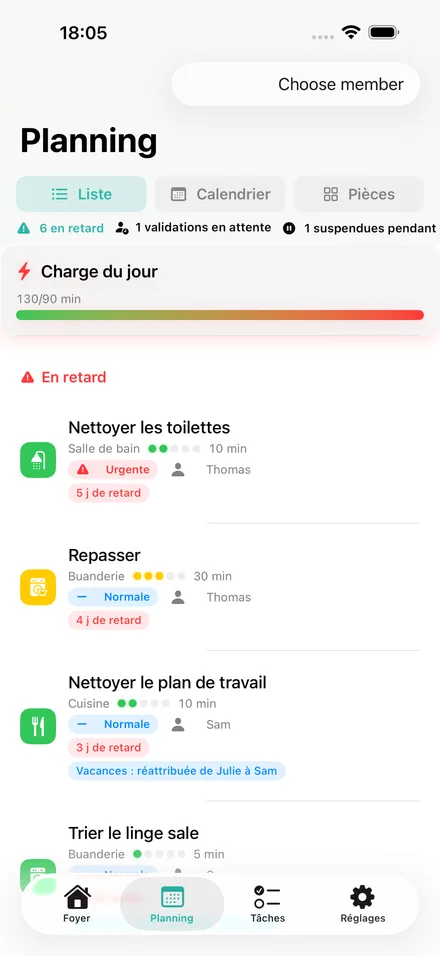
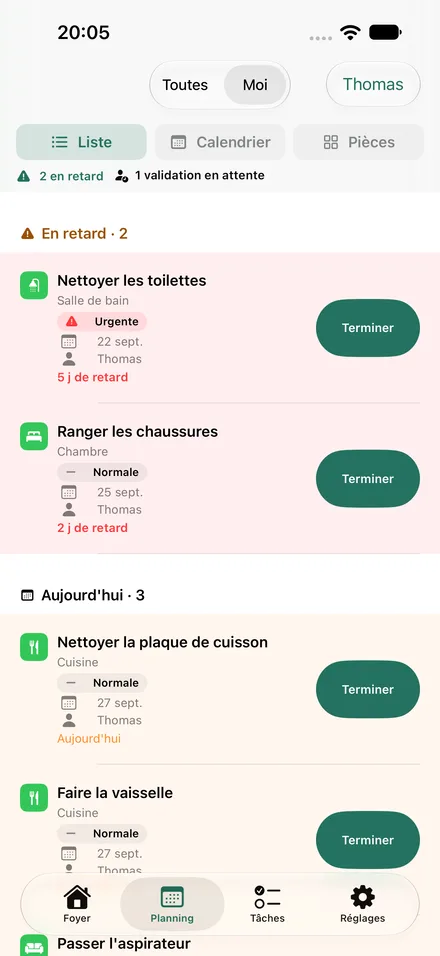
Sync NeatShift 2.6.0 in public app catalogue

diff --git a/fr/index.html b/fr/index.html
@@ -160,7 +160,7 @@
 <article class="product-row" data-app="FastZen" data-category="everyday" data-search="FastZen iPhone Un rythme simple pour le jeûne. Prévisualisez gratuitement les sept prochains jours. Avec la Semaine sur mesure, décalez un début ou prenez un jour de repos sans modifier votre semaine habituelle."><div class="product-copy"><div class="product-top"><img class="app-icon" src="/assets/apps/fastzen.webp" width="512" height="512" alt="" loading="lazy" decoding="async"><div><p class="product-category">Quotidien</p><h3><a href="https://bnjdpn.github.io/FastZen/fr-FR/">FastZen</a></h3></div></div><p class="product-headline">Un rythme simple pour le jeûne.</p><p class="product-description">Prévisualisez gratuitement les sept prochains jours. Avec la Semaine sur mesure, décalez un début ou prenez un jour de repos sans modifier votre semaine habituelle.</p><p class="product-platform">iPhone</p><div class="product-actions"><a href="https://bnjdpn.github.io/FastZen/fr-FR/" aria-label="Découvrir · FastZen">Découvrir<svg viewBox="0 0 24 24" width="24" height="24" aria-hidden="true" fill="none" stroke="currentColor" stroke-width="1.6"><path d="M5 12h14m-6-6 6 6-6 6"/></svg></a><a class="store-link" href="https://apps.apple.com/app/id6761484595" aria-label="App Store · FastZen">App Store<svg viewBox="0 0 24 24" width="24" height="24" aria-hidden="true" fill="none" stroke="currentColor" stroke-width="1.6"><path d="M6 18 18 6M6 6h12v12"/></svg></a></div></div><a class="product-preview" href="https://bnjdpn.github.io/FastZen/fr-FR/" tabindex="-1" aria-hidden="true"><span class="screen" style="--ratio:0.4602510460251046;--image-width:100%;--image-left:0%;--image-top:0%"><img src="/assets/previews/fastzen-fr-detail.webp" width="880" height="1912" alt="FastZen" loading="lazy" decoding="async"></span></a></article>
 <article class="product-row" data-app="ColdLoad" data-category="training" data-search="ColdLoad iPhone Les bons disques, sans calcul mental. Essayez un exemple guidé en kg ou lb, puis utilisez votre inventaire de disques. Voyez les changements de chaque côté et les charges impossibles à atteindre."><div class="product-copy"><div class="product-top"><img class="app-icon" src="/assets/apps/coldload.webp" width="512" height="512" alt="" loading="lazy" decoding="async"><div><p class="product-category">Sport</p><h3><a href="https://bnjdpn.github.io/ColdLoad/fr-FR/">ColdLoad</a></h3></div></div><p class="product-headline">Les bons disques, sans calcul mental.</p><p class="product-description">Essayez un exemple guidé en kg ou lb, puis utilisez votre inventaire de disques. Voyez les changements de chaque côté et les charges impossibles à atteindre.</p><p class="product-platform">iPhone</p><div class="product-actions"><a href="https://bnjdpn.github.io/ColdLoad/fr-FR/" aria-label="Découvrir · ColdLoad">Découvrir<svg viewBox="0 0 24 24" width="24" height="24" aria-hidden="true" fill="none" stroke="currentColor" stroke-width="1.6"><path d="M5 12h14m-6-6 6 6-6 6"/></svg></a><a class="store-link" href="https://apps.apple.com/app/id6785921799" aria-label="App Store · ColdLoad">App Store<svg viewBox="0 0 24 24" width="24" height="24" aria-hidden="true" fill="none" stroke="currentColor" stroke-width="1.6"><path d="M6 18 18 6M6 6h12v12"/></svg></a></div></div><a class="product-preview" href="https://bnjdpn.github.io/ColdLoad/fr-FR/" tabindex="-1" aria-hidden="true"><span class="screen" style="--ratio:0.4602510460251046;--image-width:100%;--image-left:0%;--image-top:0%"><img src="/assets/previews/coldload-fr-detail.webp" width="880" height="1912" alt="ColdLoad" loading="lazy" decoding="async"></span></a></article>
 <article class="product-row" data-app="MoveAtlas" data-category="training" data-search="MoveAtlas iPhone Trouver le mouvement qui convient. Retrouvez les fiches machines en français, anglais, allemand et espagnol. Consultez les repères de réglage et choisissez vos alternatives pour préparer la séance."><div class="product-copy"><div class="product-top"><img class="app-icon" src="/assets/apps/moveatlas.webp" width="512" height="512" alt="" loading="lazy" decoding="async"><div><p class="product-category">Sport</p><h3><a href="https://bnjdpn.github.io/MoveAtlas/fr-FR/">MoveAtlas</a></h3></div></div><p class="product-headline">Trouver le mouvement qui convient.</p><p class="product-description">Retrouvez les fiches machines en français, anglais, allemand et espagnol. Consultez les repères de réglage et choisissez vos alternatives pour préparer la séance.</p><p class="product-platform">iPhone</p><div class="product-actions"><a href="https://bnjdpn.github.io/MoveAtlas/fr-FR/" aria-label="Découvrir · MoveAtlas">Découvrir<svg viewBox="0 0 24 24" width="24" height="24" aria-hidden="true" fill="none" stroke="currentColor" stroke-width="1.6"><path d="M5 12h14m-6-6 6 6-6 6"/></svg></a><a class="store-link" href="https://apps.apple.com/app/id6786200811" aria-label="App Store · MoveAtlas">App Store<svg viewBox="0 0 24 24" width="24" height="24" aria-hidden="true" fill="none" stroke="currentColor" stroke-width="1.6"><path d="M6 18 18 6M6 6h12v12"/></svg></a></div></div><a class="product-preview" href="https://bnjdpn.github.io/MoveAtlas/fr-FR/" tabindex="-1" aria-hidden="true"><span class="screen" style="--ratio:0.46145778710015734;--image-width:100%;--image-left:0%;--image-top:0%"><img src="/assets/previews/moveatlas-fr-detail.webp" width="880" height="1907" alt="MoveAtlas" loading="lazy" decoding="async"></span></a></article>
-<article class="product-row" data-app="NeatShift" data-category="everyday" data-search="NeatShift iPhone · iPad Faire une place à chacun dans la routine. Essayez gratuitement un foyer d’exemple sans modifier le vôtre. Découvrez les tâches, les disponibilités et un aperçu de leur répartition."><div class="product-copy"><div class="product-top"><img class="app-icon" src="/assets/apps/neatshift.webp" width="512" height="512" alt="" loading="lazy" decoding="async"><div><p class="product-category">Quotidien</p><h3><a href="https://bnjdpn.github.io/NeatShift/fr-FR/">NeatShift</a></h3></div></div><p class="product-headline">Faire une place à chacun dans la routine.</p><p class="product-description">Essayez gratuitement un foyer d’exemple sans modifier le vôtre. Découvrez les tâches, les disponibilités et un aperçu de leur répartition.</p><p class="product-platform">iPhone · iPad</p><div class="product-actions"><a href="https://bnjdpn.github.io/NeatShift/fr-FR/" aria-label="Découvrir · NeatShift">Découvrir<svg viewBox="0 0 24 24" width="24" height="24" aria-hidden="true" fill="none" stroke="currentColor" stroke-width="1.6"><path d="M5 12h14m-6-6 6 6-6 6"/></svg></a><a class="store-link" href="https://apps.apple.com/app/id6759961773" aria-label="App Store · NeatShift">App Store<svg viewBox="0 0 24 24" width="24" height="24" aria-hidden="true" fill="none" stroke="currentColor" stroke-width="1.6"><path d="M6 18 18 6M6 6h12v12"/></svg></a></div></div><a class="product-preview" href="https://bnjdpn.github.io/NeatShift/fr-FR/" tabindex="-1" aria-hidden="true"><span class="screen" style="--ratio:0.4602510460251046;--image-width:100%;--image-left:0%;--image-top:0%"><img src="/assets/previews/neatshift-fr-detail.webp" width="880" height="1912" alt="NeatShift" loading="lazy" decoding="async"></span></a></article>
+<article class="product-row" data-app="NeatShift" data-category="everyday" data-search="NeatShift iPhone · iPad Un planning plus clair pour le foyer. Voyez les tâches du jour et les retards, répartissez selon le temps de chacun et prévisualisez l’effet d’une absence. Essayez un foyer d’exemple sans modifier le vôtre."><div class="product-copy"><div class="product-top"><img class="app-icon" src="/assets/apps/neatshift.webp" width="512" height="512" alt="" loading="lazy" decoding="async"><div><p class="product-category">Quotidien</p><h3><a href="https://bnjdpn.github.io/NeatShift/fr-FR/">NeatShift</a></h3></div></div><p class="product-headline">Un planning plus clair pour le foyer.</p><p class="product-description">Voyez les tâches du jour et les retards, répartissez selon le temps de chacun et prévisualisez l’effet d’une absence. Essayez un foyer d’exemple sans modifier le vôtre.</p><p class="product-platform">iPhone · iPad</p><div class="product-actions"><a href="https://bnjdpn.github.io/NeatShift/fr-FR/" aria-label="Découvrir · NeatShift">Découvrir<svg viewBox="0 0 24 24" width="24" height="24" aria-hidden="true" fill="none" stroke="currentColor" stroke-width="1.6"><path d="M5 12h14m-6-6 6 6-6 6"/></svg></a><a class="store-link" href="https://apps.apple.com/app/id6759961773" aria-label="App Store · NeatShift">App Store<svg viewBox="0 0 24 24" width="24" height="24" aria-hidden="true" fill="none" stroke="currentColor" stroke-width="1.6"><path d="M6 18 18 6M6 6h12v12"/></svg></a></div></div><a class="product-preview" href="https://bnjdpn.github.io/NeatShift/fr-FR/" tabindex="-1" aria-hidden="true"><span class="screen" style="--ratio:0.4602510460251046;--image-width:100%;--image-left:0%;--image-top:0%"><img src="/assets/previews/neatshift-fr-detail.webp" width="880" height="1912" alt="NeatShift" loading="lazy" decoding="async"></span></a></article>
 <article class="product-row" data-app="BrewMeter" data-category="everyday" data-search="BrewMeter iPhone Garder un œil sur sa caféine. Notez vos boissons et distinguez la consommation enregistrée, la caféine restante estimée et l’estimation au coucher choisi. Vérifiez les favoris avant validation et explorez les tendances."><div class="product-copy"><div class="product-top"><img class="app-icon" src="/assets/apps/brewmeter.webp" width="512" height="512" alt="" loading="lazy" decoding="async"><div><p class="product-category">Quotidien</p><h3><a href="https://bnjdpn.github.io/BrewMeter/fr-FR/">BrewMeter</a></h3></div></div><p class="product-headline">Garder un œil sur sa caféine.</p><p class="product-description">Notez vos boissons et distinguez la consommation enregistrée, la caféine restante estimée et l’estimation au coucher choisi. Vérifiez les favoris avant validation et explorez les tendances.</p><p class="product-platform">iPhone</p><div class="product-actions"><a href="https://bnjdpn.github.io/BrewMeter/fr-FR/" aria-label="Découvrir · BrewMeter">Découvrir<svg viewBox="0 0 24 24" width="24" height="24" aria-hidden="true" fill="none" stroke="currentColor" stroke-width="1.6"><path d="M5 12h14m-6-6 6 6-6 6"/></svg></a><a class="store-link" href="https://apps.apple.com/app/id6760132566" aria-label="App Store · BrewMeter">App Store<svg viewBox="0 0 24 24" width="24" height="24" aria-hidden="true" fill="none" stroke="currentColor" stroke-width="1.6"><path d="M6 18 18 6M6 6h12v12"/></svg></a></div></div><a class="product-preview" href="https://bnjdpn.github.io/BrewMeter/fr-FR/" tabindex="-1" aria-hidden="true"><span class="screen" style="--ratio:0.4602510460251046;--image-width:100%;--image-left:0%;--image-top:0%"><img src="/assets/previews/brewmeter-fr-detail.webp" width="880" height="1912" alt="BrewMeter" loading="lazy" decoding="async"></span></a></article>
 <article class="product-row" data-app="NoBuyCart" data-category="everyday" data-search="NoBuy Cart iPhone Le plaisir du panier, sans passer en caisse. Gardez vos envies réelles avec des notes, mettez-les en pause et notez votre décision. Une boutique fictive distincte permet de remplir un panier sans passer en caisse."><div class="product-copy"><div class="product-top"><img class="app-icon" src="/assets/apps/nobuycart.webp" width="512" height="512" alt="" loading="lazy" decoding="async"><div><p class="product-category">Quotidien</p><h3><a href="https://bnjdpn.github.io/NoBuyCart/fr-FR/">NoBuy Cart</a></h3></div></div><p class="product-headline">Le plaisir du panier, sans passer en caisse.</p><p class="product-description">Gardez vos envies réelles avec des notes, mettez-les en pause et notez votre décision. Une boutique fictive distincte permet de remplir un panier sans passer en caisse.</p><p class="product-platform">iPhone</p><div class="product-actions"><a href="https://bnjdpn.github.io/NoBuyCart/fr-FR/" aria-label="Découvrir · NoBuy Cart">Découvrir<svg viewBox="0 0 24 24" width="24" height="24" aria-hidden="true" fill="none" stroke="currentColor" stroke-width="1.6"><path d="M5 12h14m-6-6 6 6-6 6"/></svg></a><a class="store-link" href="https://apps.apple.com/app/id6778049102" aria-label="App Store · NoBuy Cart">App Store<svg viewBox="0 0 24 24" width="24" height="24" aria-hidden="true" fill="none" stroke="currentColor" stroke-width="1.6"><path d="M6 18 18 6M6 6h12v12"/></svg></a></div></div><a class="product-preview" href="https://bnjdpn.github.io/NoBuyCart/fr-FR/" tabindex="-1" aria-hidden="true"><span class="screen" style="--ratio:0.4602510460251046;--image-width:100%;--image-left:0%;--image-top:0%"><img src="/assets/previews/nobuycart-fr-detail.webp" width="880" height="1912" alt="NoBuy Cart" loading="lazy" decoding="async"></span></a></article>
 <article class="product-row" data-app="PasDuJour" data-category="everyday" data-search="Pas du Jour Apple Watch Vos pas du jour, en un regard. Suivez le guide intégré pour ajouter une complication de pas au cadran. Gardez le compteur du jour et votre objectif au poignet, avec des styles à personnaliser."><div class="product-copy"><div class="product-top"><img class="app-icon" src="/assets/apps/pasdujour.webp" width="512" height="512" alt="" loading="lazy" decoding="async"><div><p class="product-category">Quotidien</p><h3><a href="https://bnjdpn.github.io/PasDuJour/fr-FR/">Pas du Jour</a></h3></div></div><p class="product-headline">Vos pas du jour, en un regard.</p><p class="product-description">Suivez le guide intégré pour ajouter une complication de pas au cadran. Gardez le compteur du jour et votre objectif au poignet, avec des styles à personnaliser.</p><p class="product-platform">Apple Watch</p><div class="product-actions"><a href="https://bnjdpn.github.io/PasDuJour/fr-FR/" aria-label="Découvrir · Pas du Jour">Découvrir<svg viewBox="0 0 24 24" width="24" height="24" aria-hidden="true" fill="none" stroke="currentColor" stroke-width="1.6"><path d="M5 12h14m-6-6 6 6-6 6"/></svg></a><a class="store-link" href="https://apps.apple.com/app/id6795232703" aria-label="App Store · Pas du Jour">App Store<svg viewBox="0 0 24 24" width="24" height="24" aria-hidden="true" fill="none" stroke="currentColor" stroke-width="1.6"><path d="M6 18 18 6M6 6h12v12"/></svg></a></div></div><a class="product-preview" href="https://bnjdpn.github.io/PasDuJour/fr-FR/" tabindex="-1" aria-hidden="true"><span class="screen" style="--ratio:0.8210116731517509;--image-width:100%;--image-left:0%;--image-top:0%"><img src="/assets/previews/pasdujour-fr-detail.webp" width="422" height="514" alt="Pas du Jour" loading="lazy" decoding="async"></span></a></article>

diff --git a/index.html b/index.html
@@ -160,7 +160,7 @@
 <article class="product-row" data-app="FastZen" data-category="everyday" data-search="FastZen iPhone A simple rhythm for fasting. Preview your next seven days for free. With Custom Week, move a start or take a rest day for one date without changing your weekly routine."><div class="product-copy"><div class="product-top"><img class="app-icon" src="/assets/apps/fastzen.webp" width="512" height="512" alt="" loading="lazy" decoding="async"><div><p class="product-category">Everyday life</p><h3><a href="https://bnjdpn.github.io/FastZen/">FastZen</a></h3></div></div><p class="product-headline">A simple rhythm for fasting.</p><p class="product-description">Preview your next seven days for free. With Custom Week, move a start or take a rest day for one date without changing your weekly routine.</p><p class="product-platform">iPhone</p><div class="product-actions"><a href="https://bnjdpn.github.io/FastZen/" aria-label="Discover · FastZen">Discover<svg viewBox="0 0 24 24" width="24" height="24" aria-hidden="true" fill="none" stroke="currentColor" stroke-width="1.6"><path d="M5 12h14m-6-6 6 6-6 6"/></svg></a><a class="store-link" href="https://apps.apple.com/app/id6761484595" aria-label="App Store · FastZen">App Store<svg viewBox="0 0 24 24" width="24" height="24" aria-hidden="true" fill="none" stroke="currentColor" stroke-width="1.6"><path d="M6 18 18 6M6 6h12v12"/></svg></a></div></div><a class="product-preview" href="https://bnjdpn.github.io/FastZen/" tabindex="-1" aria-hidden="true"><span class="screen" style="--ratio:0.4602510460251046;--image-width:100%;--image-left:0%;--image-top:0%"><img src="/assets/previews/fastzen-en-detail.webp" width="880" height="1912" alt="FastZen" loading="lazy" decoding="async"></span></a></article>
 <article class="product-row" data-app="ColdLoad" data-category="training" data-search="ColdLoad iPhone The right plates, without the maths. Try a guided example in kg or lb, then use your own plate inventory. See what goes on each side and when a target cannot be reached."><div class="product-copy"><div class="product-top"><img class="app-icon" src="/assets/apps/coldload.webp" width="512" height="512" alt="" loading="lazy" decoding="async"><div><p class="product-category">Training</p><h3><a href="https://bnjdpn.github.io/ColdLoad/">ColdLoad</a></h3></div></div><p class="product-headline">The right plates, without the maths.</p><p class="product-description">Try a guided example in kg or lb, then use your own plate inventory. See what goes on each side and when a target cannot be reached.</p><p class="product-platform">iPhone</p><div class="product-actions"><a href="https://bnjdpn.github.io/ColdLoad/" aria-label="Discover · ColdLoad">Discover<svg viewBox="0 0 24 24" width="24" height="24" aria-hidden="true" fill="none" stroke="currentColor" stroke-width="1.6"><path d="M5 12h14m-6-6 6 6-6 6"/></svg></a><a class="store-link" href="https://apps.apple.com/app/id6785921799" aria-label="App Store · ColdLoad">App Store<svg viewBox="0 0 24 24" width="24" height="24" aria-hidden="true" fill="none" stroke="currentColor" stroke-width="1.6"><path d="M6 18 18 6M6 6h12v12"/></svg></a></div></div><a class="product-preview" href="https://bnjdpn.github.io/ColdLoad/" tabindex="-1" aria-hidden="true"><span class="screen" style="--ratio:0.4602510460251046;--image-width:100%;--image-left:0%;--image-top:0%"><img src="/assets/previews/coldload-en-detail.webp" width="880" height="1912" alt="ColdLoad" loading="lazy" decoding="async"></span></a></article>
 <article class="product-row" data-app="MoveAtlas" data-category="training" data-search="MoveAtlas iPhone Find a movement that fits. Find equipment cards in French, English, German and Spanish. Read setup cues and choose alternatives yourself to prepare your workout."><div class="product-copy"><div class="product-top"><img class="app-icon" src="/assets/apps/moveatlas.webp" width="512" height="512" alt="" loading="lazy" decoding="async"><div><p class="product-category">Training</p><h3><a href="https://bnjdpn.github.io/MoveAtlas/">MoveAtlas</a></h3></div></div><p class="product-headline">Find a movement that fits.</p><p class="product-description">Find equipment cards in French, English, German and Spanish. Read setup cues and choose alternatives yourself to prepare your workout.</p><p class="product-platform">iPhone</p><div class="product-actions"><a href="https://bnjdpn.github.io/MoveAtlas/" aria-label="Discover · MoveAtlas">Discover<svg viewBox="0 0 24 24" width="24" height="24" aria-hidden="true" fill="none" stroke="currentColor" stroke-width="1.6"><path d="M5 12h14m-6-6 6 6-6 6"/></svg></a><a class="store-link" href="https://apps.apple.com/app/id6786200811" aria-label="App Store · MoveAtlas">App Store<svg viewBox="0 0 24 24" width="24" height="24" aria-hidden="true" fill="none" stroke="currentColor" stroke-width="1.6"><path d="M6 18 18 6M6 6h12v12"/></svg></a></div></div><a class="product-preview" href="https://bnjdpn.github.io/MoveAtlas/" tabindex="-1" aria-hidden="true"><span class="screen" style="--ratio:0.46145778710015734;--image-width:100%;--image-left:0%;--image-top:0%"><img src="/assets/previews/moveatlas-en-detail.webp" width="880" height="1907" alt="MoveAtlas" loading="lazy" decoding="async"></span></a></article>
-<article class="product-row" data-app="NeatShift" data-category="everyday" data-search="NeatShift iPhone · iPad Make room for a shared routine. Try a sample household for free without changing your own. Explore chores, availability and a preview of how tasks can be shared."><div class="product-copy"><div class="product-top"><img class="app-icon" src="/assets/apps/neatshift.webp" width="512" height="512" alt="" loading="lazy" decoding="async"><div><p class="product-category">Everyday life</p><h3><a href="https://bnjdpn.github.io/NeatShift/">NeatShift</a></h3></div></div><p class="product-headline">Make room for a shared routine.</p><p class="product-description">Try a sample household for free without changing your own. Explore chores, availability and a preview of how tasks can be shared.</p><p class="product-platform">iPhone · iPad</p><div class="product-actions"><a href="https://bnjdpn.github.io/NeatShift/" aria-label="Discover · NeatShift">Discover<svg viewBox="0 0 24 24" width="24" height="24" aria-hidden="true" fill="none" stroke="currentColor" stroke-width="1.6"><path d="M5 12h14m-6-6 6 6-6 6"/></svg></a><a class="store-link" href="https://apps.apple.com/app/id6759961773" aria-label="App Store · NeatShift">App Store<svg viewBox="0 0 24 24" width="24" height="24" aria-hidden="true" fill="none" stroke="currentColor" stroke-width="1.6"><path d="M6 18 18 6M6 6h12v12"/></svg></a></div></div><a class="product-preview" href="https://bnjdpn.github.io/NeatShift/" tabindex="-1" aria-hidden="true"><span class="screen" style="--ratio:0.4602510460251046;--image-width:100%;--image-left:0%;--image-top:0%"><img src="/assets/previews/neatshift-en-detail.webp" width="880" height="1912" alt="NeatShift" loading="lazy" decoding="async"></span></a></article>
+<article class="product-row" data-app="NeatShift" data-category="everyday" data-search="NeatShift iPhone · iPad A clearer plan for a shared home. See today's chores and overdue work, plan around each person's time, and preview how an absence changes the schedule. Try a sample home without changing your own."><div class="product-copy"><div class="product-top"><img class="app-icon" src="/assets/apps/neatshift.webp" width="512" height="512" alt="" loading="lazy" decoding="async"><div><p class="product-category">Everyday life</p><h3><a href="https://bnjdpn.github.io/NeatShift/">NeatShift</a></h3></div></div><p class="product-headline">A clearer plan for a shared home.</p><p class="product-description">See today's chores and overdue work, plan around each person's time, and preview how an absence changes the schedule. Try a sample home without changing your own.</p><p class="product-platform">iPhone · iPad</p><div class="product-actions"><a href="https://bnjdpn.github.io/NeatShift/" aria-label="Discover · NeatShift">Discover<svg viewBox="0 0 24 24" width="24" height="24" aria-hidden="true" fill="none" stroke="currentColor" stroke-width="1.6"><path d="M5 12h14m-6-6 6 6-6 6"/></svg></a><a class="store-link" href="https://apps.apple.com/app/id6759961773" aria-label="App Store · NeatShift">App Store<svg viewBox="0 0 24 24" width="24" height="24" aria-hidden="true" fill="none" stroke="currentColor" stroke-width="1.6"><path d="M6 18 18 6M6 6h12v12"/></svg></a></div></div><a class="product-preview" href="https://bnjdpn.github.io/NeatShift/" tabindex="-1" aria-hidden="true"><span class="screen" style="--ratio:0.4602510460251046;--image-width:100%;--image-left:0%;--image-top:0%"><img src="/assets/previews/neatshift-en-detail.webp" width="880" height="1912" alt="NeatShift" loading="lazy" decoding="async"></span></a></article>
 <article class="product-row" data-app="BrewMeter" data-category="everyday" data-search="BrewMeter iPhone Keep an eye on your caffeine. Log your drinks and see recorded intake, estimated remaining caffeine and your chosen bedtime estimate separately. Review favorites before logging and explore trends."><div class="product-copy"><div class="product-top"><img class="app-icon" src="/assets/apps/brewmeter.webp" width="512" height="512" alt="" loading="lazy" decoding="async"><div><p class="product-category">Everyday life</p><h3><a href="https://bnjdpn.github.io/BrewMeter/">BrewMeter</a></h3></div></div><p class="product-headline">Keep an eye on your caffeine.</p><p class="product-description">Log your drinks and see recorded intake, estimated remaining caffeine and your chosen bedtime estimate separately. Review favorites before logging and explore trends.</p><p class="product-platform">iPhone</p><div class="product-actions"><a href="https://bnjdpn.github.io/BrewMeter/" aria-label="Discover · BrewMeter">Discover<svg viewBox="0 0 24 24" width="24" height="24" aria-hidden="true" fill="none" stroke="currentColor" stroke-width="1.6"><path d="M5 12h14m-6-6 6 6-6 6"/></svg></a><a class="store-link" href="https://apps.apple.com/app/id6760132566" aria-label="App Store · BrewMeter">App Store<svg viewBox="0 0 24 24" width="24" height="24" aria-hidden="true" fill="none" stroke="currentColor" stroke-width="1.6"><path d="M6 18 18 6M6 6h12v12"/></svg></a></div></div><a class="product-preview" href="https://bnjdpn.github.io/BrewMeter/" tabindex="-1" aria-hidden="true"><span class="screen" style="--ratio:0.4602510460251046;--image-width:100%;--image-left:0%;--image-top:0%"><img src="/assets/previews/brewmeter-en-detail.webp" width="880" height="1912" alt="BrewMeter" loading="lazy" decoding="async"></span></a></article>
 <article class="product-row" data-app="NoBuyCart" data-category="everyday" data-search="NoBuy Cart iPhone The pleasure of a cart. Without checkout. Keep real wishes with notes, pause them and record your decision. A separate fictional shop lets you enjoy a cart without a checkout."><div class="product-copy"><div class="product-top"><img class="app-icon" src="/assets/apps/nobuycart.webp" width="512" height="512" alt="" loading="lazy" decoding="async"><div><p class="product-category">Everyday life</p><h3><a href="https://bnjdpn.github.io/NoBuyCart/">NoBuy Cart</a></h3></div></div><p class="product-headline">The pleasure of a cart. Without checkout.</p><p class="product-description">Keep real wishes with notes, pause them and record your decision. A separate fictional shop lets you enjoy a cart without a checkout.</p><p class="product-platform">iPhone</p><div class="product-actions"><a href="https://bnjdpn.github.io/NoBuyCart/" aria-label="Discover · NoBuy Cart">Discover<svg viewBox="0 0 24 24" width="24" height="24" aria-hidden="true" fill="none" stroke="currentColor" stroke-width="1.6"><path d="M5 12h14m-6-6 6 6-6 6"/></svg></a><a class="store-link" href="https://apps.apple.com/app/id6778049102" aria-label="App Store · NoBuy Cart">App Store<svg viewBox="0 0 24 24" width="24" height="24" aria-hidden="true" fill="none" stroke="currentColor" stroke-width="1.6"><path d="M6 18 18 6M6 6h12v12"/></svg></a></div></div><a class="product-preview" href="https://bnjdpn.github.io/NoBuyCart/" tabindex="-1" aria-hidden="true"><span class="screen" style="--ratio:0.4602510460251046;--image-width:100%;--image-left:0%;--image-top:0%"><img src="/assets/previews/nobuycart-en-detail.webp" width="880" height="1912" alt="NoBuy Cart" loading="lazy" decoding="async"></span></a></article>
 <article class="product-row" data-app="PasDuJour" data-category="everyday" data-search="Pas du Jour Apple Watch Your daily steps, at a glance. Follow the built-in guide to add a step complication to your watch face. Keep your daily count and goal close, with styles to make them your own."><div class="product-copy"><div class="product-top"><img class="app-icon" src="/assets/apps/pasdujour.webp" width="512" height="512" alt="" loading="lazy" decoding="async"><div><p class="product-category">Everyday life</p><h3><a href="https://bnjdpn.github.io/PasDuJour/">Pas du Jour</a></h3></div></div><p class="product-headline">Your daily steps, at a glance.</p><p class="product-description">Follow the built-in guide to add a step complication to your watch face. Keep your daily count and goal close, with styles to make them your own.</p><p class="product-platform">Apple Watch</p><div class="product-actions"><a href="https://bnjdpn.github.io/PasDuJour/" aria-label="Discover · Pas du Jour">Discover<svg viewBox="0 0 24 24" width="24" height="24" aria-hidden="true" fill="none" stroke="currentColor" stroke-width="1.6"><path d="M5 12h14m-6-6 6 6-6 6"/></svg></a><a class="store-link" href="https://apps.apple.com/app/id6795232703" aria-label="App Store · Pas du Jour">App Store<svg viewBox="0 0 24 24" width="24" height="24" aria-hidden="true" fill="none" stroke="currentColor" stroke-width="1.6"><path d="M6 18 18 6M6 6h12v12"/></svg></a></div></div><a class="product-preview" href="https://bnjdpn.github.io/PasDuJour/" tabindex="-1" aria-hidden="true"><span class="screen" style="--ratio:0.8210116731517509;--image-width:100%;--image-left:0%;--image-top:0%"><img src="/assets/previews/pasdujour-en-detail.webp" width="422" height="514" alt="Pas du Jour" loading="lazy" decoding="async"></span></a></article>
